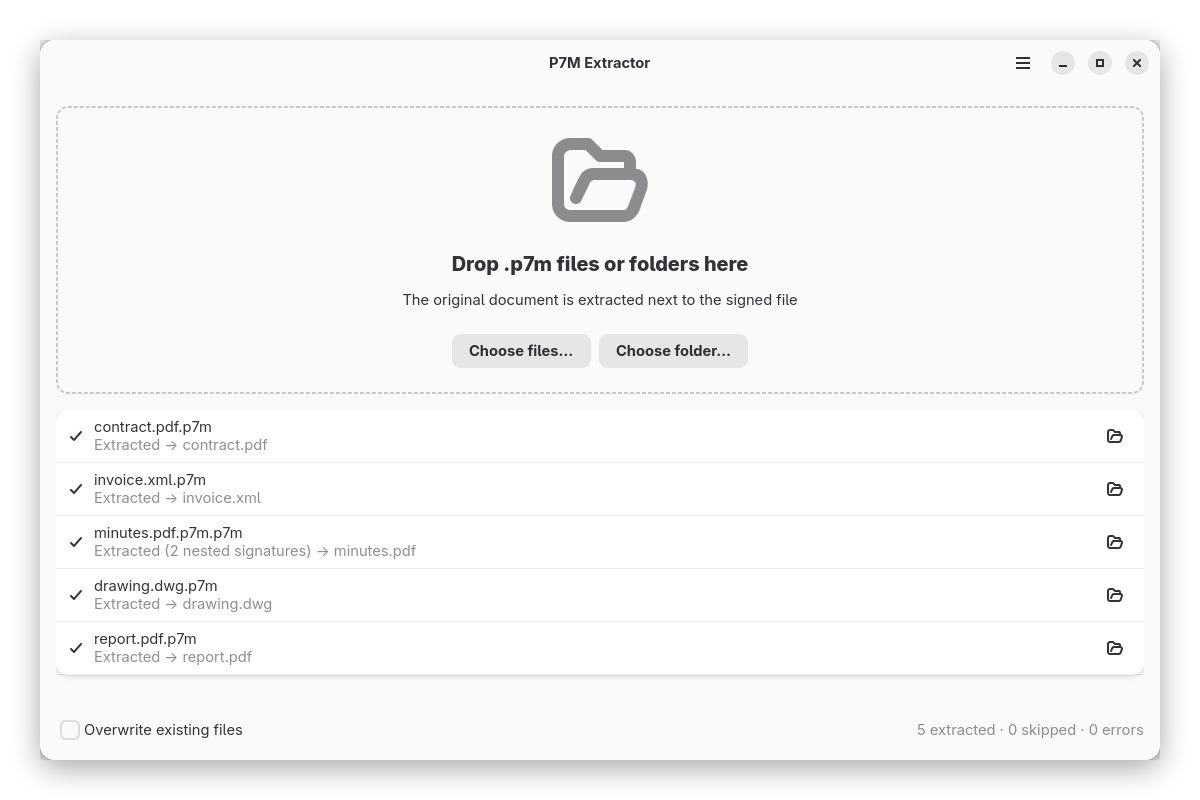
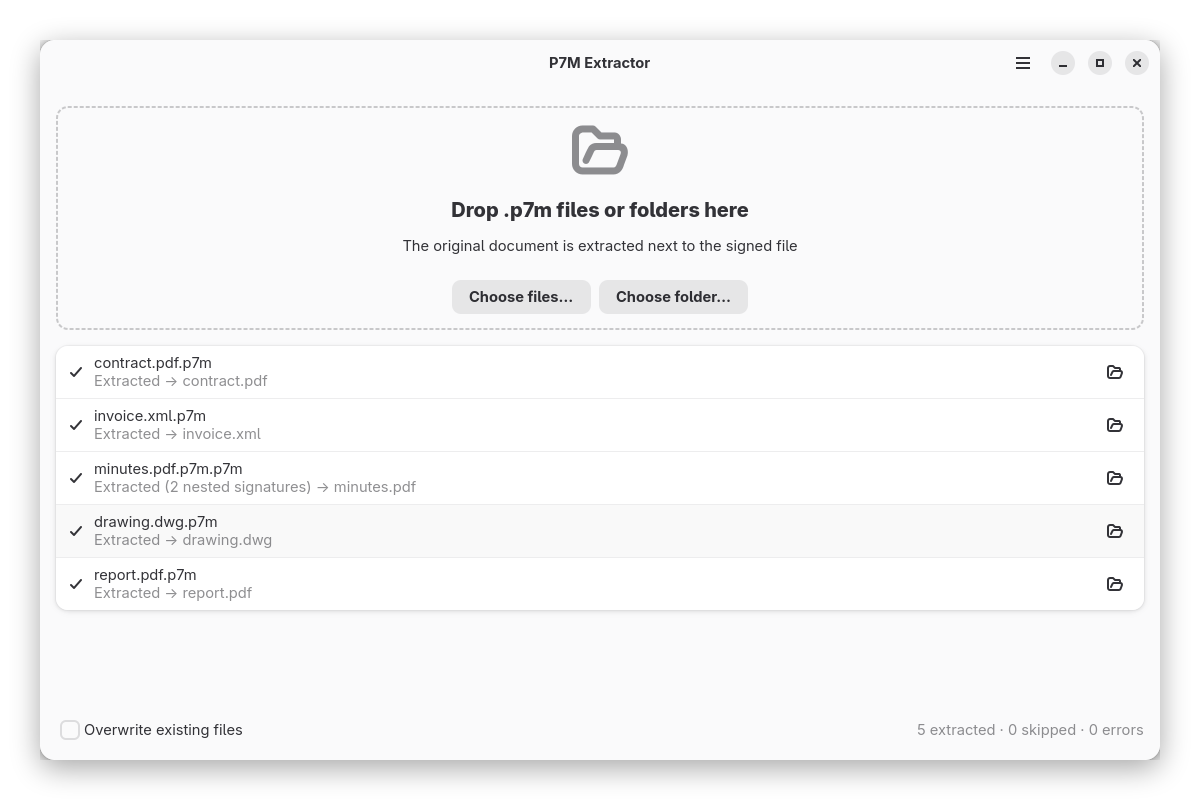
libadwaita: no empty card, room for the results, compact drop zone
In the light style the results area looked wrong: an empty white card
with a placeholder floating on the near-white window background, and a
card shadow drawn right against the edges of its scrolled window. The
drop zone, an AdwStatusPage, also took more than half of the default
window even with the compact style, so three results already scrolled
and the first one hid under it.

The results area is now a stack: a plain dim label while there is
nothing to show, the boxed list once the first file arrives. The list
sits inset in a scrolled window wider than itself, so its shadow has
room, while its edges still line up with the drop zone. The status page
gets a smaller icon, a smaller title and tighter margins through the
app stylesheet, which brings it from 288 px down to 224 px in the
default window and leaves the list about 200 px.

Plain GTK is untouched: all of this lives on the libadwaita path.
Screenshot regenerated.

(cherry picked from commit 309f7398385bfab2a2738860cc69318c94f37dd1)

diff --git a/p7m_extractor.py b/p7m_extractor.py
@@ -850,6 +850,18 @@ _CSS_ADW = b"""
     border-color: @accent_bg_color;
     background: alpha(@accent_bg_color, 0.08);
 }
+/* The drop zone is an AdwStatusPage; even "compact" it would take more than
+   half of the default window, leaving the results list no room. */
+.dropzone > scrolledwindow > viewport > box {
+    margin: 14px 12px;
+}
+.dropzone .icon {
+    -gtk-icon-size: 56px;
+    margin-bottom: 8px;
+}
+.dropzone .title {
+    font-size: 15pt;
+}
 """
 
 
@@ -1229,16 +1241,18 @@ def run_gui(argv, settings: Settings) -> int:
                              lambda _w, _p: setattr(self, "_alt_solo", False))
 
             content = Gtk.Box(orientation=Gtk.Orientation.VERTICAL, spacing=12)
-            set_margins(content, 16)
             if use_adw:
                 # HIG layout: the toolbar view carries the header bar, the page
-                # lives in a toast overlay so messages arrive as toasts.
+                # lives in a toast overlay so messages arrive as toasts. The
+                # 16 px page margin goes on each child here, not on the box:
+                # the results card needs a scrolled window wider than itself.
                 self.toasts = Adw.ToastOverlay(child=content)
                 view = Adw.ToolbarView()
                 view.add_top_bar(header)
                 view.set_content(self.toasts)
                 self.set_content(view)
             else:
+                set_margins(content, 16)
                 root = Gtk.Box(orientation=Gtk.Orientation.VERTICAL)
                 if not use_csd:
                     root.append(header)
@@ -1295,7 +1309,10 @@ def run_gui(argv, settings: Settings) -> int:
                 for w in (icon, title, hint, btns):
                     self.dropzone.append(w)
             self.dropzone.add_css_class("dropzone")
-            set_margins(self.dropzone, top=4, bottom=4)
+            if use_adw:
+                set_margins(self.dropzone, top=20, bottom=0, start=16, end=16)
+            else:
+                set_margins(self.dropzone, top=4, bottom=4)
             content.append(self.dropzone)
 
             # --- results list ---------------------------------------------
@@ -1303,21 +1320,35 @@ def run_gui(argv, settings: Settings) -> int:
             self.listbox.connect("row-activated", self._on_row_activated)
             placeholder = Gtk.Label(label=_("Extracted files will appear here"))
             placeholder.add_css_class("dim-label")
-            set_margins(placeholder, top=24, bottom=24)
-            self.listbox.set_placeholder(placeholder)
             scrolled = Gtk.ScrolledWindow(vexpand=True, child=self.listbox)
             scrolled.set_policy(Gtk.PolicyType.NEVER, Gtk.PolicyType.AUTOMATIC)
-            if use_adw:  # boxed-list draws the HIG card around the rows
+            if use_adw:
+                # The HIG card (boxed-list) hugs its rows, and sits inset in a
+                # scrolled window wider than itself: the viewport clips at its
+                # edges, so the card's shadow needs room around it. The card
+                # still lines up with the drop zone at 16 px from the window.
                 self.listbox.add_css_class("boxed-list")
-                # ...which has to hug them: filling the scrolled window would
-                # stretch the card over the empty space below the last row.
                 self.listbox.set_valign(Gtk.Align.START)
-                content.append(scrolled)
+                set_margins(self.listbox, top=4, bottom=12, start=8, end=8)
+                set_margins(scrolled, start=8, end=8)
+                # No card while there is nothing to show: an empty white card
+                # on the window background is what looks wrong.
+                placeholder.set_vexpand(True)
+                set_margins(placeholder, start=16, end=16)
+                self.list_stack = Gtk.Stack(
+                    vexpand=True, transition_type=Gtk.StackTransitionType.CROSSFADE)
+                self.list_stack.add_named(placeholder, "empty")
+                self.list_stack.add_named(scrolled, "list")
+                content.append(self.list_stack)
             else:
+                set_margins(placeholder, top=24, bottom=24)
+                self.listbox.set_placeholder(placeholder)
                 content.append(Gtk.Frame(child=scrolled))
 
             # --- bottom bar ------------------------------------------------
             bottom = Gtk.Box(orientation=Gtk.Orientation.HORIZONTAL, spacing=8)
+            if use_adw:
+                set_margins(bottom, bottom=16, start=16, end=16)
             check = Gtk.CheckButton(label=_("Overwrite existing files"))
             check.connect("toggled", self.on_overwrite_toggled)
             self.summary = Gtk.Label(label="", hexpand=True, xalign=1.0)
@@ -1604,6 +1635,8 @@ def run_gui(argv, settings: Settings) -> int:
             row = ResultRow(src, self._reveal)
             self._rows[key] = row
             self.listbox.append(row)
+            if use_adw:  # first row: swap the empty state for the card
+                self.list_stack.set_visible_child_name("list")
             return False  # one-shot GLib.idle_add
 
         def _row_call(self, key, method, *args):
